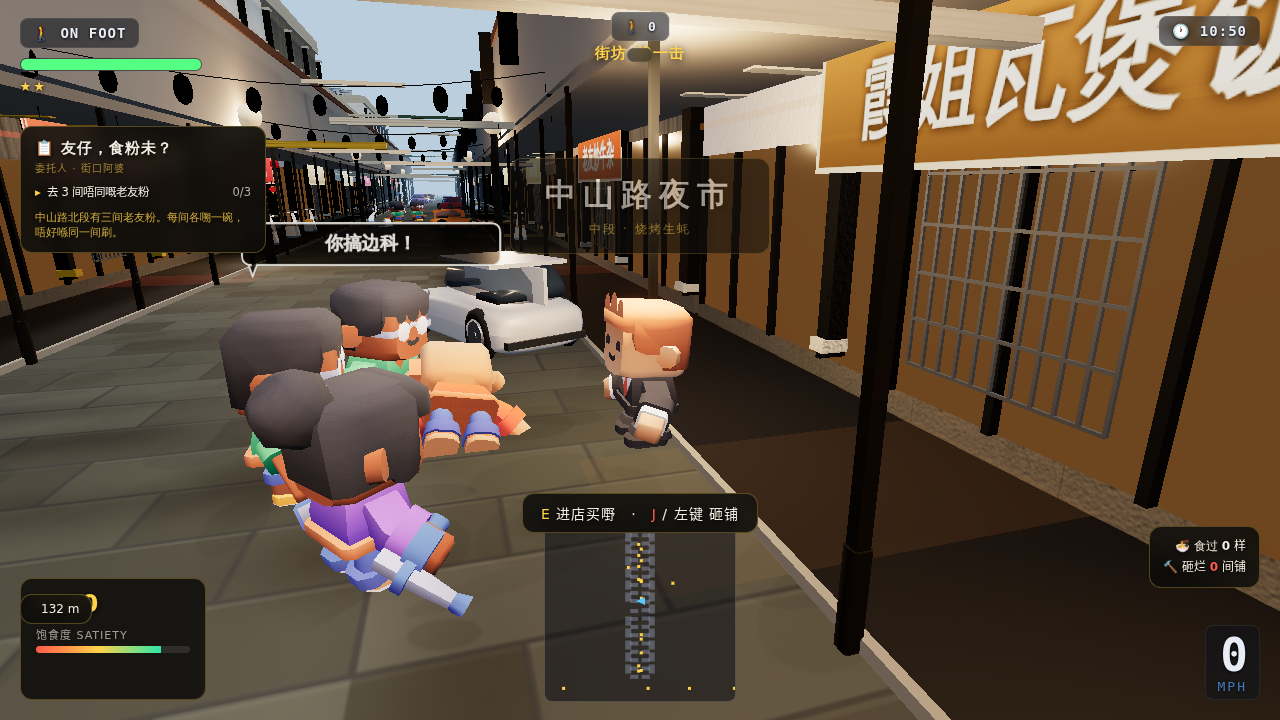
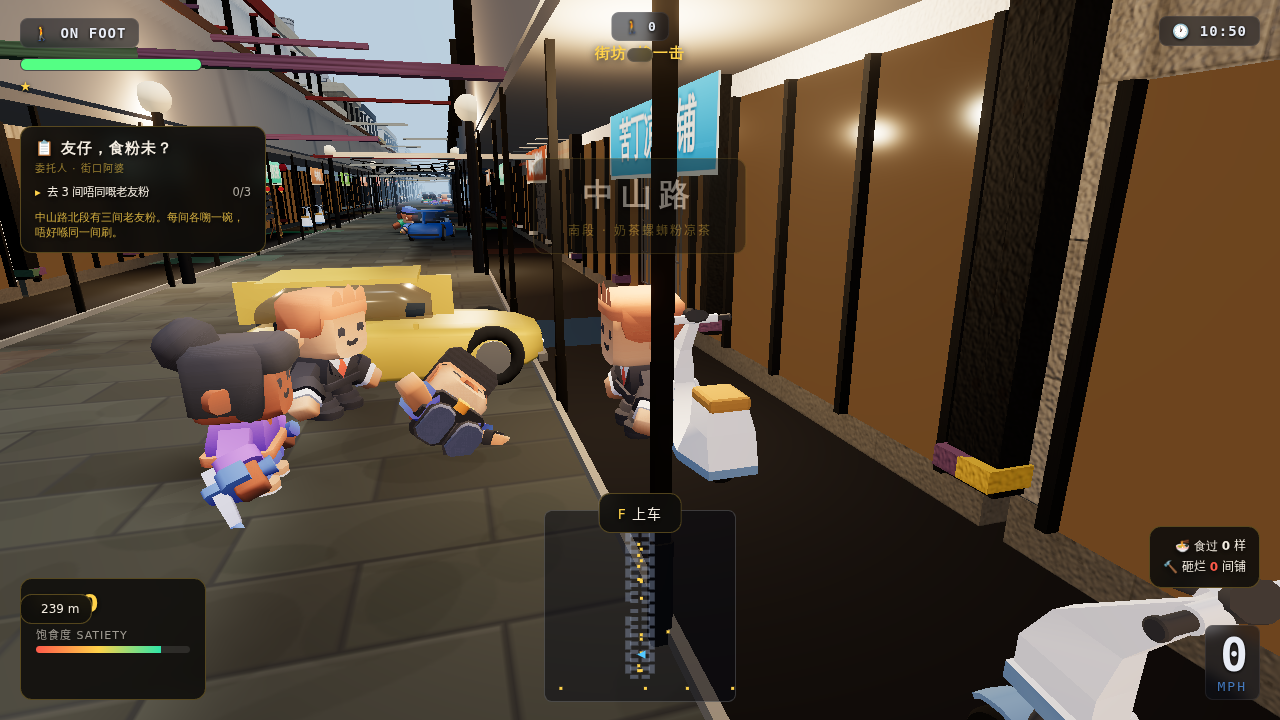
Park the e-bikes in the gaps between the columns, and spread the crowd
The e-bikes were parked on the shopfronts, and the colonnade stands a
column every few metres along the kerb — a scooter is 1.85 m long, so
parked there it straddled one with its front wheel inside it. The columns
are not on a round number either: the two frontages are different lengths
because of the alley on the west side, and the pitch is the run's length
divided by its number of bays. So the parking now works the column
positions out the same way the colonnade does and drops the scooter into
the middle of the gap.

The crowd: a body is about 0.6 m across, and a 1.45 m centre distance
still left them looking like one clot, so it is 1.8 m now, and a fighter
keeps 2.8 m rather than closing right up.

The carry: slung across the shoulders at shoulder height, so the body
reads from the front as well as the side, with the head over the
shoulder and the boots clear of the carrier's neck.

tsc clean, 229 tests, build clean.

diff --git a/src/nanning/scenery.ts b/src/nanning/scenery.ts
@@ -561,29 +561,48 @@ async function mountPolyEbikes(scene: THREE.Scene, city: NanningCity): Promise<v
   // Under the arcade, clear of the columns, on the raised pavement.
   const PARK_X = STREET_HALF + 0.95;
   const PARK_Y = ARCADE_RAISE;
-  // The colonnade stands a column every 4.45 m along the kerb, and a scooter
-  // is 1.85 m long. Parked at the shopfront it straddles one, with its
-  // handlebars inside the column — so park it in the bay between two.
-  const COL_PITCH = 4.45;
-  const COL_FIRST = STREET_Z0 + 1.2;
-  const bay = (z: number): number => {
-    const k = Math.round((z - COL_FIRST - COL_PITCH / 2) / COL_PITCH);
-    return COL_FIRST + COL_PITCH / 2 + k * COL_PITCH;
+  // The colonnade stands a column every few metres along the kerb, and a
+  // scooter is 1.85 m long. Parked at the shopfront it straddles one, with
+  // its front wheel inside it — so park it in the gap between two columns.
+  //
+  // The columns are not on a round number: the two frontages have different
+  // lengths (there is an alley on the west side) and the pitch is the run's
+  // length divided by the number of bays. So the column positions have to
+  // be worked out the same way the colonnade works them out, and the
+  // scooter dropped into the middle of the widest gap.
+  const bay = (side: number, z: number): number => {
+    const runs = side > 0
+      ? [[STREET_Z0 + 1.2, STREET_Z1 - 0.6]]
+      : [[STREET_Z0 + 1.2, -ALLEY_WIDTH / 2 - 0.5], [ALLEY_WIDTH / 2 + 0.5, STREET_Z1 - 0.6]];
+    let best = z;
+    let bestD = 1e9;
+    for (const [from, to] of runs) {
+      const len = to - from;
+      const n = Math.max(2, Math.floor(len / 4.4));
+      for (let i = 0; i < n; i += 1) {
+        const a = from + (i / n) * len;
+        const b = from + ((i + 1) / n) * len;
+        const mid = (a + b) / 2;
+        const d = Math.abs(mid - z);
+        if (d < bestD) { bestD = d; best = mid; }
+      }
+    }
+    return best;
   };
   for (const unit of city.shops) {
     if (!WARM.has(unit.def.id) || unit.nightOnly) continue;
     // The same side as the shop: nx points from the shop into the street, so
     // -nx is the near kerb.
     const x = -unit.nx * PARK_X;
-    spots.push({ x, z: bay(unit.z - 1.1), heading, y: PARK_Y });
-    spots.push({ x, z: bay(unit.z + 1.1), heading, y: PARK_Y });
+    spots.push({ x, z: bay(Math.sign(x) || 1, unit.z - 1.1), heading, y: PARK_Y });
+    spots.push({ x, z: bay(Math.sign(x) || 1, unit.z + 1.1), heading, y: PARK_Y });
   }
   // Extra pairs along both sides so mid-street framing is not empty.
   for (const side of [-1, 1] as const) {
     const x = side * PARK_X;
     for (let z = STREET_Z0 + 25; z < STREET_Z1 - 25; z += 45) {
-      spots.push({ x, z: bay(z - 0.9), heading, y: PARK_Y });
-      spots.push({ x, z: bay(z + 0.9), heading, y: PARK_Y });
+      spots.push({ x, z: bay(side, z - 0.9), heading, y: PARK_Y });
+      spots.push({ x, z: bay(side, z + 0.9), heading, y: PARK_Y });
     }
   }
   await addPolyEbikes(scene, spots);

diff --git a/src/nanning/crowd.ts b/src/nanning/crowd.ts
@@ -66,7 +66,7 @@ const CROWD_PANIC_TIME = 3.5; // seconds running from you after a punch
 const CROWD_FLEE_SPEED = 5; // m/s
 const CROWD_AID_RADIUS = 8; // how far a friend has to be to notice the punch
 const CROWD_AID_CHANCE = 0.5; // ...and how likely they are to care enough
-const CROWD_FIGHT_REACH = 2.0; // swinging distance
+const CROWD_FIGHT_REACH = 2.8; // swinging distance
 const CROWD_FIGHT_SPEED = 2.9; // closing speed
 const CROWD_SWING_DAMAGE = 7; // health the player loses per swing
 const CROWD_SWING_COOLDOWN = 1.35; // seconds between swings
@@ -87,7 +87,7 @@ const GRAVITY = 18;
  * width of daylight between two people and the street reads as one clot.
  * 1.45 m puts real air between them.
  */
-const CROWD_GAP = 1.45;
+const CROWD_GAP = 1.8;
 
 /** Draw a line of text into a rounded bubble sprite. */
 function makeBubble(): THREE.Sprite {
@@ -469,9 +469,12 @@ export class Crowd {
       // carrier's neck. At three-quarter size, slung down the back, the
       // boots hang behind the carrier and the head clears the shoulder.
       t.group.scale.setScalar(0.72);
-      t.group.position.set(px - rx * 0.3 - fx * 0.42, 1.24, pz - rz * 0.3 - fz * 0.42);
-      // Draped: the body lies down the back, head over the far shoulder.
-      t.group.rotation.set(0.35, heading, -0.5);
+      // Over the shoulders, high enough to clear the carrier's own head, so
+      // the carry reads from the front and not as somebody crouching behind.
+      t.group.position.set(px - rx * 0.16 - fx * 0.3, 1.52, pz - rz * 0.16 - fz * 0.3);
+      // Draped across the shoulders: the body lies along the line of the
+      // shoulders, head to one side, boots to the other.
+      t.group.rotation.set(0, heading, -1.15);
       t.x = t.group.position.x;
       t.z = t.group.position.z;
       return;

diff --git a/src/nanning/crowd.test.ts b/src/nanning/crowd.test.ts
@@ -76,8 +76,9 @@ describe('Crowd — street rules', () => {
     expect(t.group.position.x).toBeGreaterThan(4.4);
     expect(t.group.position.x).toBeLessThan(4.75);
     expect(t.group.position.z).toBeLessThan(6.85);
-    expect(t.group.position.y).toBeCloseTo(1.24, 2);
+    expect(t.group.position.y).toBeCloseTo(1.52, 2);
     expect(t.group.scale.x).toBeCloseTo(0.72, 2);
-    expect(t.group.rotation.z).toBeLessThan(-0.4);
+    // The body lies across the line of the shoulders, not down the back.
+    expect(t.group.rotation.z).toBeLessThan(-1.0);
   });
 });
